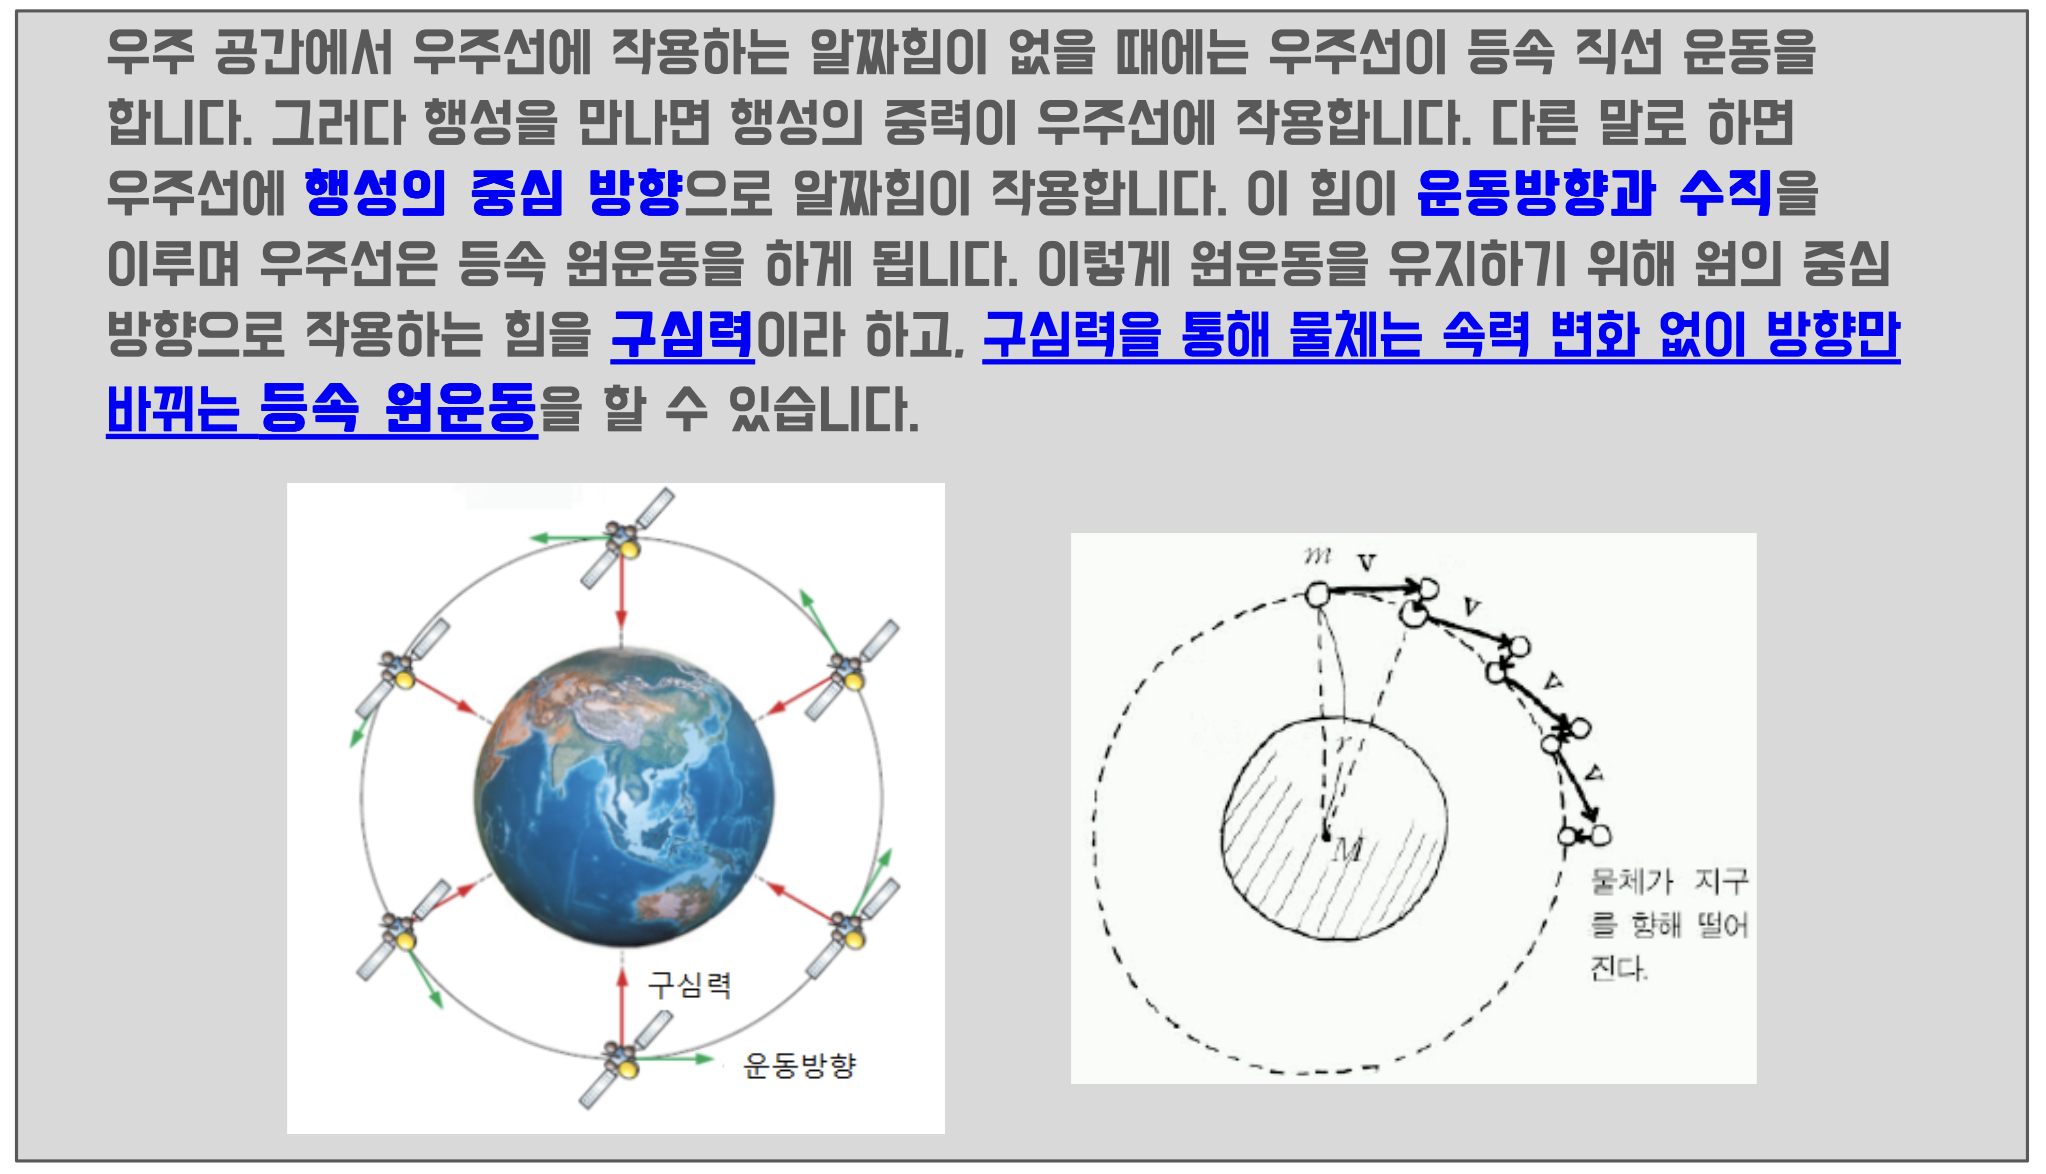
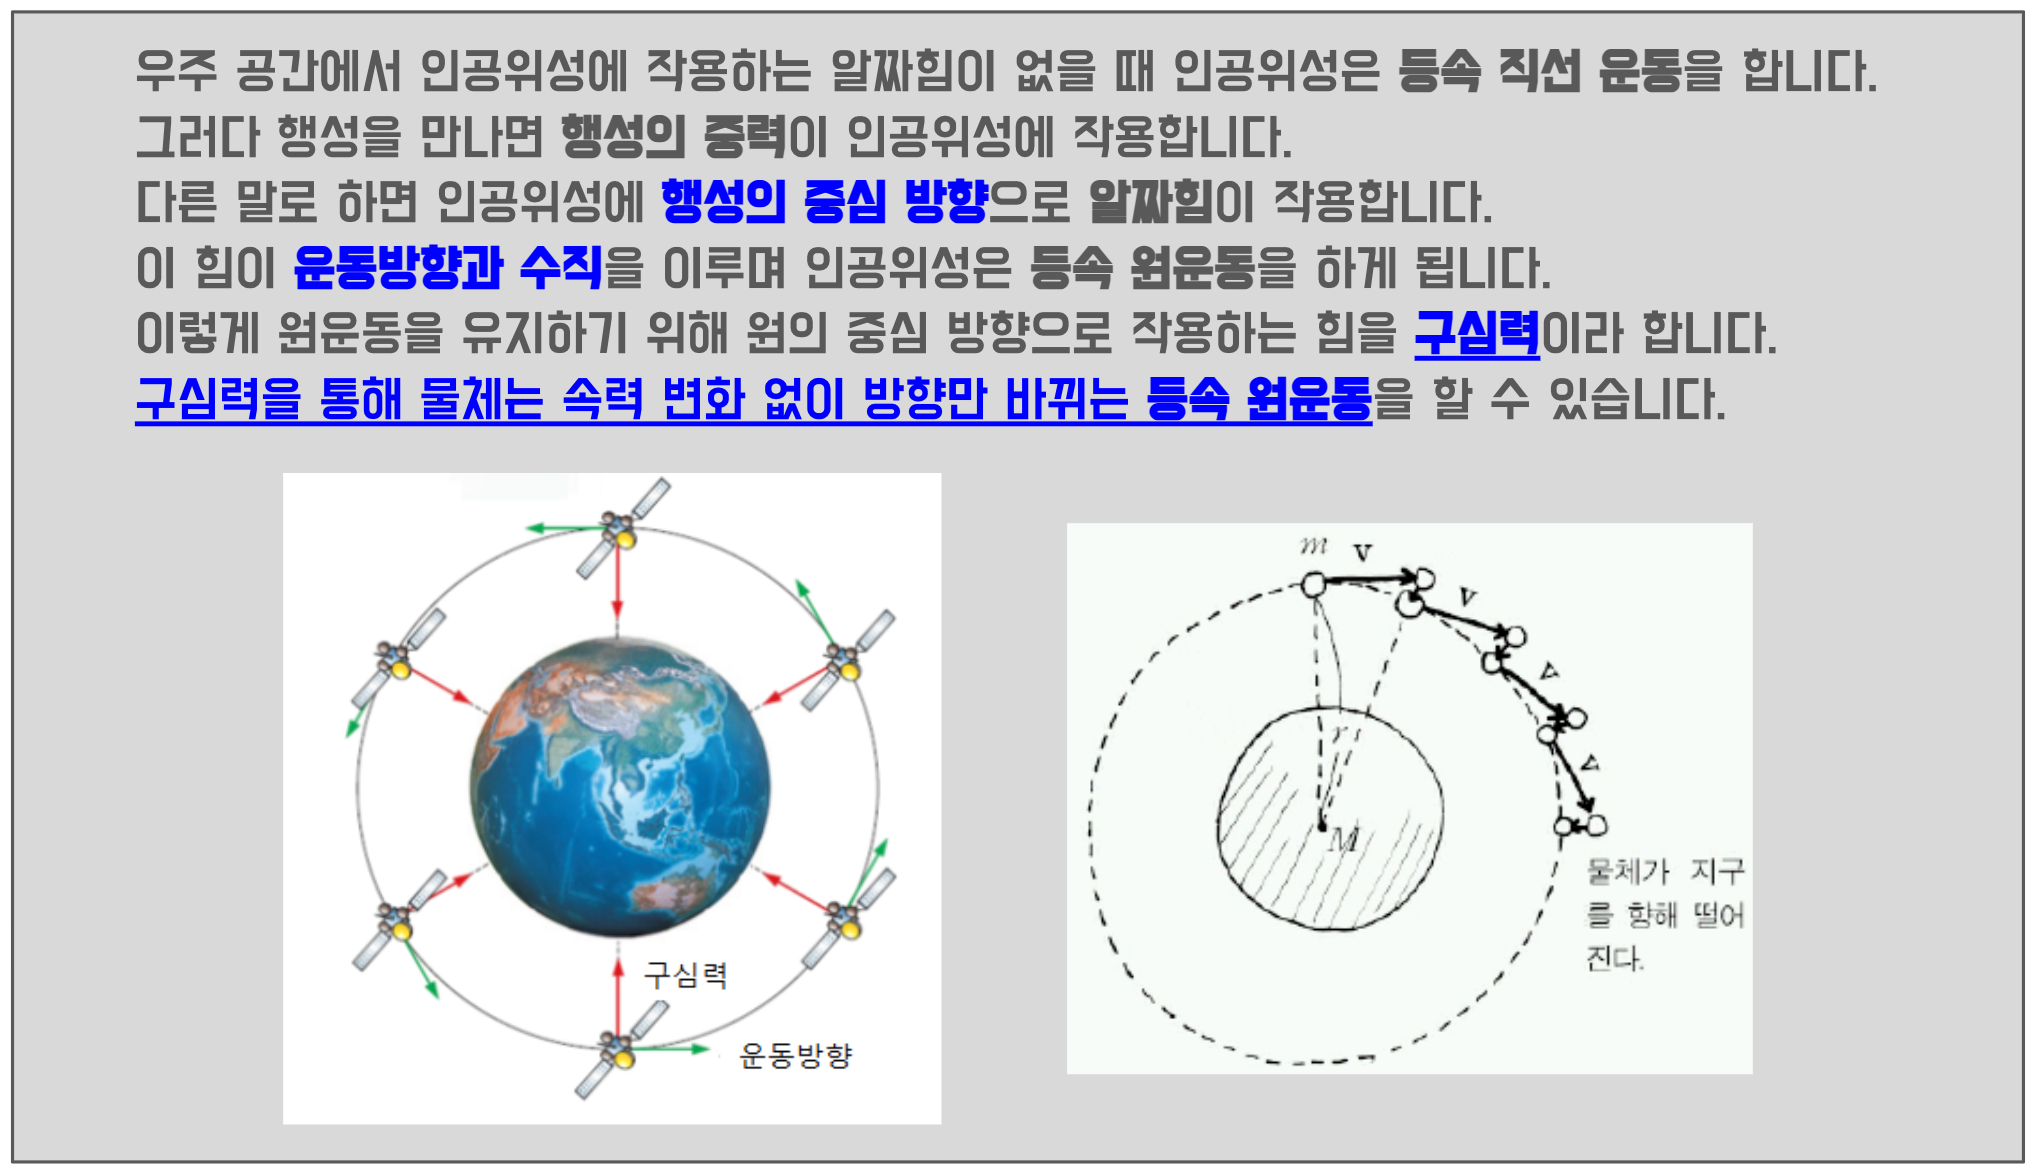
update UI and figures

diff --git a/pages_group/05_적용하기.py b/pages_group/05_적용하기.py
@@ -126,6 +126,8 @@ def get_session_history(session_ids: str) -> BaseChatMessageHistory:
 ######################################
 ########### Mainpage Logic ###########
 ######################################
+st.set_page_config(layout="wide")
+
 st.title("적용하기 💡")
 st.info("- 배운 내용을 새로운 상황에 적용해보며 개념을 더 깊게 이해해봅시다. \n - 지구 주위를 도는 달의 모습을 관찰해보고 그 이유를 설명해보세요. \n - 좌측 사이드바의 🧑🏻🏫**AI 선생님**과 대화하며 내 이해를 확인해보세요.")
 

diff --git a/pages_group/02_생각하기.py b/pages_group/02_생각하기.py
@@ -48,6 +48,8 @@ if not os.path.exists(".cache/files"):
 if not os.path.exists(".cache/embeddings"):
     os.mkdir(".cache/embeddings")
 
+st.set_page_config(layout="wide")
+
 st.title("생각하기 🤔")
 st.info("- 다음 문제 상황의 정답을 예상해보고, 그 예상의 이유를 적어봅시다. \n - 하단의 캔버스에 그림을 그려보고, 그렇게 생각한 이유를 생각해보세요. \n - 궁금한게 있으면 좌측 사이드바의 🤓**AI 친구**에게 물어보세요.")
 

diff --git a/pages_group/01_들어가기.py b/pages_group/01_들어가기.py
@@ -70,6 +70,8 @@ if "balloons_done" not in st.session_state:
 ######################################
 ########### Mainpage Logic ###########
 ######################################
+st.set_page_config(layout="wide")
+
 st.title("들어가기 🚀")
 
 st.subheader("오늘 배울 물리 개념은?")

diff --git a/pages_group/04_돌아보기.py b/pages_group/04_돌아보기.py
@@ -144,6 +144,8 @@ async def handle_submission_async(image_url, reason_text, system_prompt, selecte
         return None
 
 
+st.set_page_config(layout="wide")
+
 st.title("돌아보기 🧐")
 
 # Create a container for the info message and tooltip
